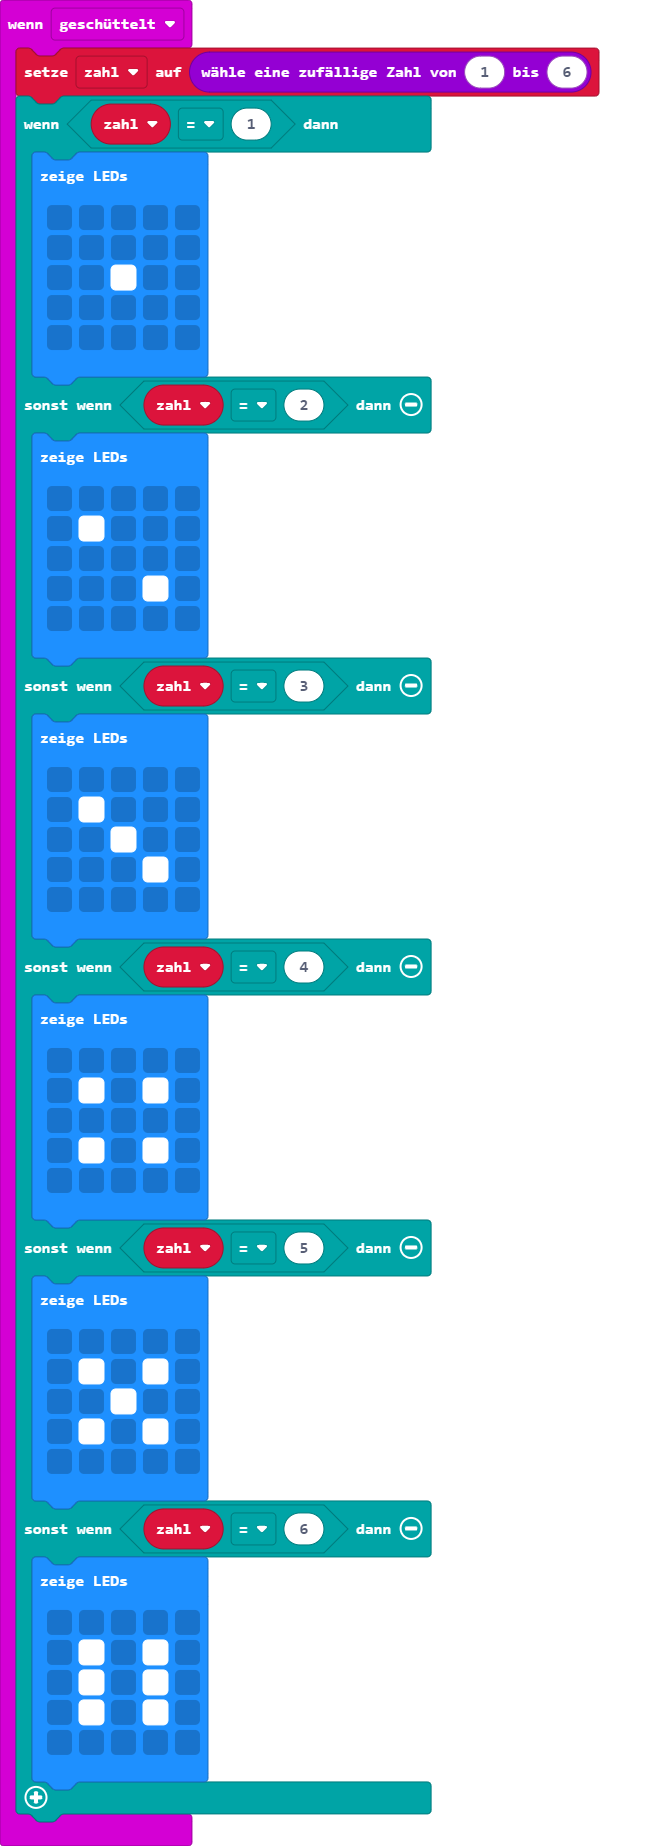
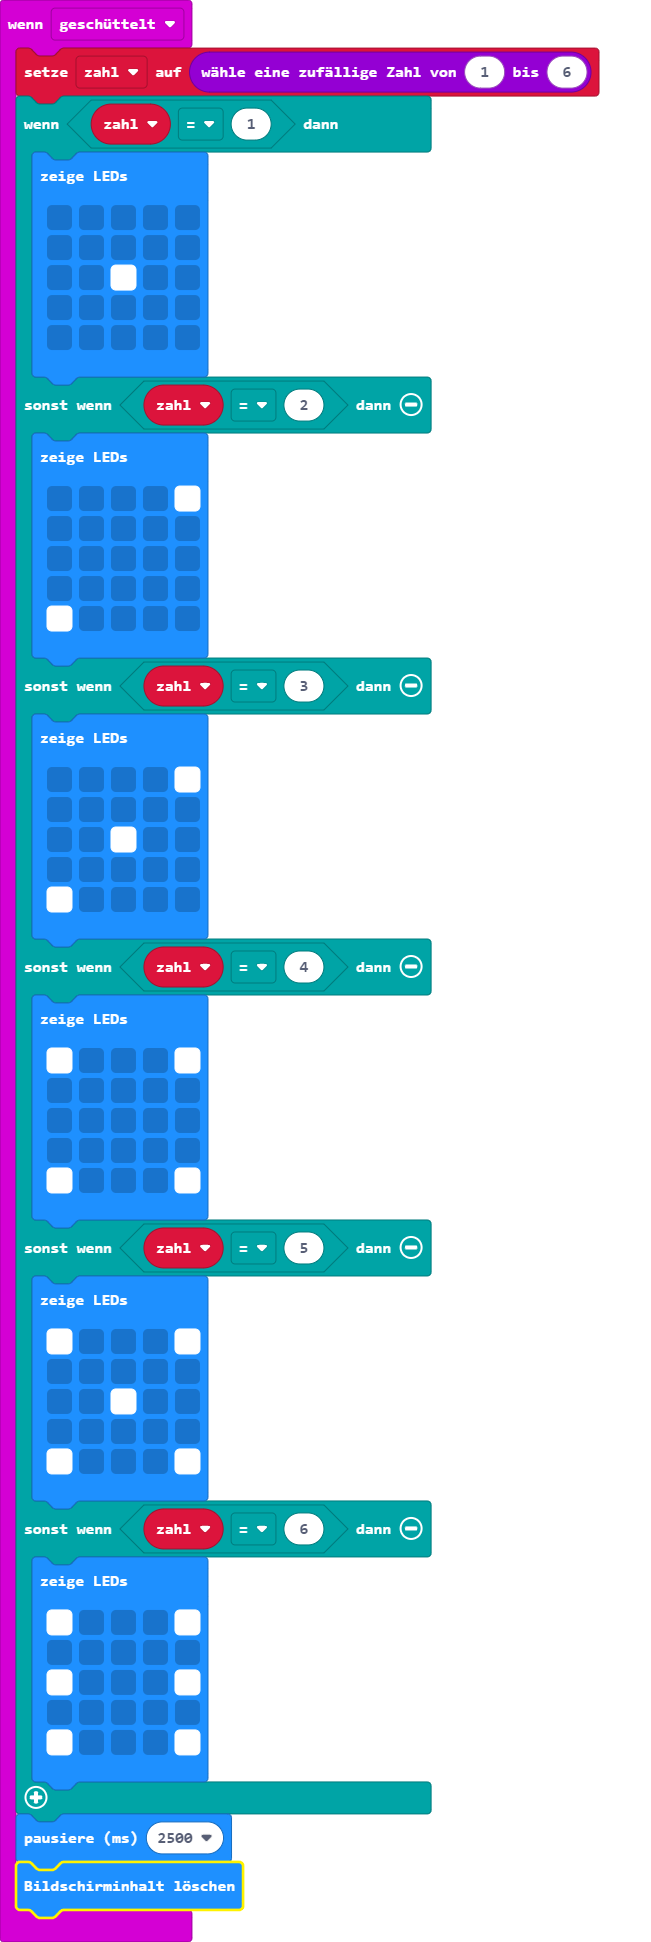
Aktualisiere main.blocks, main.ts

Changed region(s): [[0.0, 0.0, 0.9217, 0.9881]]

diff --git a/main.ts b/main.ts
@@ -11,43 +11,45 @@ input.onGesture(Gesture.Shake, function () {
             `)
     } else if (zahl == 2) {
         basic.showLeds(`
+            . . . . #
             . . . . .
-            . # . . .
             . . . . .
-            . . . # .
             . . . . .
+            # . . . .
             `)
     } else if (zahl == 3) {
         basic.showLeds(`
+            . . . . #
             . . . . .
-            . # . . .
             . . # . .
-            . . . # .
             . . . . .
+            # . . . .
             `)
     } else if (zahl == 4) {
         basic.showLeds(`
+            # . . . #
             . . . . .
-            . # . # .
             . . . . .
-            . # . # .
             . . . . .
+            # . . . #
             `)
     } else if (zahl == 5) {
         basic.showLeds(`
+            # . . . #
             . . . . .
-            . # . # .
             . . # . .
-            . # . # .
             . . . . .
+            # . . . #
             `)
     } else if (zahl == 6) {
         basic.showLeds(`
+            # . . . #
             . . . . .
-            . # . # .
-            . # . # .
-            . # . # .
+            # . . . #
             . . . . .
+            # . . . #
             `)
     }
+    basic.pause(2500)
+    basic.clearScreen()
 })
